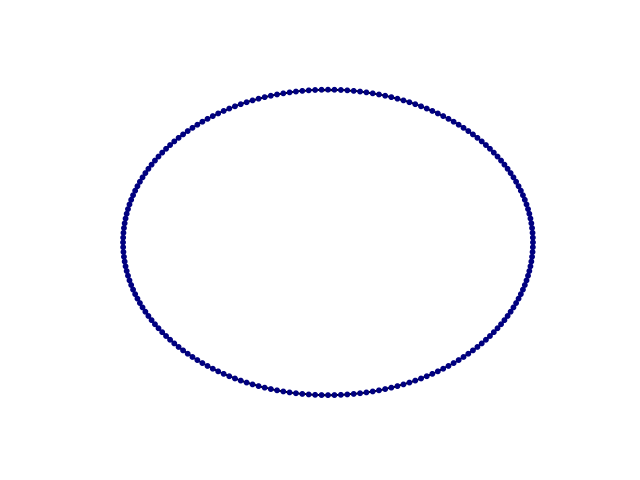
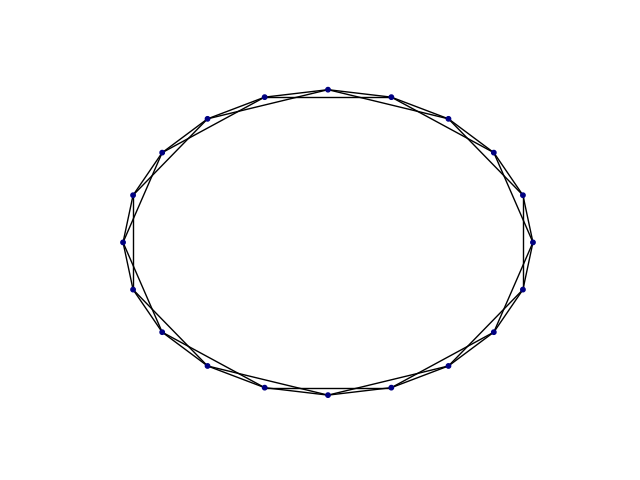
All Done

Changed region(s): [[0.1875, 0.1562, 0.8438, 0.8438]]

diff --git a/Home Problem 3/Home Problem 3.py b/Home Problem 3/Home Problem 3.py
@@ -2,25 +2,25 @@ import numpy as np
 import matplotlib.pyplot as plt
 import networkx as nx
 import collections
-import scipy, scipy.stats,scipy.sparse
+import scipy, scipy.stats, scipy.sparse
 
-def show_graph_with_labels(adjacency_matrix,p):
-    rows,cols = np.where(adjacency_matrix == 1)
+
+def show_graph_with_labels(adjacency_matrix, p):
+    rows, cols = np.where(adjacency_matrix == 1)
 
     nodes = set([n1 for n1 in rows] + [n2 for n2 in cols])
-    tmp=[]
+    tmp = []
     gr = nx.Graph()
     for node in nodes:
         gr.add_node(node)
     for i in range(len(rows)):
-        gr.add_edge(rows[i],cols[i])
+        gr.add_edge(rows[i], cols[i])
     pos = nx.shell_layout(gr)
     fig, ax = plt.subplots()
 
-
     nodes = gr.nodes()
     degree = gr.degree()
-    edges= gr.edges()
+    edges = gr.edges()
     print(edges)
     color = [degree[n] for n in nodes]
     degree_sequence = sorted([d for n, d in gr.degree()], reverse=True)
@@ -28,7 +28,7 @@ def show_graph_with_labels(adjacency_matrix,p):
 
     degreeCount = collections.Counter(degree_sequence)
     deg, cnt = zip(*degreeCount.items())
-    numberOfNodes=len(adjacency_matrix)
+    numberOfNodes = len(adjacency_matrix)
 
     # plt.bar(deg, cnt, width=0.80, color='b')
     #
@@ -39,20 +39,19 @@ def show_graph_with_labels(adjacency_matrix,p):
     # ax.set_xticks([d + 0.4 for d in tmp])
     # ax.set_xticklabels(tmp)
 
-    return fig,ax,gr
+    return fig, ax, gr
 
 
-def ErdosRenyi(n,p):
-
+def ErdosRenyi(n, p):
     edges = np.zeros([n, n])
-    #edges= scipy.sparse.rand(n,n,density=p).ceil()
+    # edges= scipy.sparse.rand(n,n,density=p).ceil()
 
     for i in range(n):
-        for j in range(i+1):
-            r=np.random.rand()
-            if r<p:
-                edges[i][j]=1
-                edges[j][i]=1
+        for j in range(i + 1):
+            r = np.random.rand()
+            if r < p:
+                edges[i][j] = 1
+                edges[j][i] = 1
     np.fill_diagonal(edges, 0)
 
     rows, cols = np.where(edges == 1)
@@ -84,22 +83,23 @@ def ErdosRenyi(n,p):
     fig.savefig('ErdosNetwork.png')
     plt.show()
 
-def SmallWorld(n,p,c):
+
+def SmallWorld(n, p, c):
     edges = np.zeros([n, n])
     for i in range(c):
-        np.fill_diagonal(edges[i+1:],1)
-        np.fill_diagonal(edges[:,i+1:],1)
+        np.fill_diagonal(edges[i + 1:], 1)
+        np.fill_diagonal(edges[:, i + 1:], 1)
         np.fill_diagonal(edges[-(i + 1):], 1)
         np.fill_diagonal(edges[:, -(i + 1):], 1)
-    fig,ax,gr = show_graph_with_labels(edges,p)
+    fig, ax, gr = show_graph_with_labels(edges, p)
 
-    nodes=gr.nodes()
+    nodes = gr.nodes()
     for i in edges:
         r = np.random.rand()
-        if r<p:
-            r1=np.random.randint(0,len(nodes))
-            r2=np.random.randint(0,len(nodes))
-            if not((r1,r2) in edges):
+        if r < p:
+            r1 = np.random.randint(0, len(nodes))
+            r2 = np.random.randint(0, len(nodes))
+            if not ((r1, r2) in edges):
                 gr.add_edge(r1, r2)
 
     pos = nx.shell_layout(gr)
@@ -107,15 +107,16 @@ def SmallWorld(n,p,c):
     nx.draw(gr, pos, node_size=10, node_color='blue', cmap='jet', with_label=True)
     plt.show()
 
-def PerferentialGrowth(m,n0,p):
+
+def PerferentialGrowth(m, n0, p):
     edges = np.zeros([n0, n0])
 
     for i in range(n0):
-        for j in range(i+1):
-            r=np.random.rand()
-            if r<p:
-                edges[i][j]=1
-                edges[j][i]=1
+        for j in range(i + 1):
+            r = np.random.rand()
+            if r < p:
+                edges[i][j] = 1
+                edges[j][i] = 1
     np.fill_diagonal(edges, 0)
     rows, cols = np.where(edges == 1)
 
@@ -126,60 +127,60 @@ def PerferentialGrowth(m,n0,p):
     for i in range(len(rows)):
         gr.add_edge(rows[i], cols[i])
 
-    for i in range(1000):
+    for i in range(4000):
         alreadyConnected = []
         degree_sequence = sorted([d for n, d in gr.degree()], reverse=True)
-        numberOfNodes=len(gr.nodes)
+        numberOfNodes = len(gr.nodes)
         gr.add_node(numberOfNodes)
-        totalDegree=sum(degree_sequence)
-        while len(alreadyConnected)<m:
-            #Ändra här. Ska inte vara random utan bero på fördelningen sedan innan
-            #Använd degree
-            iterator=0
-            comparisonValue=degree_sequence[0]/totalDegree
-            r1=np.random.rand()
-            while r1>comparisonValue:
-                iterator=iterator+1
-                comparisonValue=comparisonValue+degree_sequence[iterator]/totalDegree
-
+        totalDegree = sum(degree_sequence)
+        while len(alreadyConnected) < m:
+            # Ändra här. Ska inte vara random utan bero på fördelningen sedan innan
+            # Använd degree
+            iterator = 0
+            comparisonValue = degree_sequence[0] / totalDegree
+            r1 = np.random.rand()
+            while r1 > comparisonValue:
+                iterator = iterator + 1
+                comparisonValue = comparisonValue + degree_sequence[iterator] / totalDegree
 
             if not iterator in alreadyConnected:
-                gr.add_edge(numberOfNodes,iterator)
+                gr.add_edge(numberOfNodes, iterator)
                 alreadyConnected.append(iterator)
-    nodes=gr.nodes()
-    degree=gr.degree()
+    nodes = gr.nodes()
+    degree = gr.degree()
     color = [degree[n] for n in nodes]
     pos = nx.spring_layout(gr)
     fig, ax = plt.subplots()
     vmin = min(color)
     vmax = max(color)
-    nodes = nx.draw_networkx_nodes(gr, pos, node_color=color,node_size=10,cmap='jet', with_labels=False)
+    nodes = nx.draw_networkx_nodes(gr, pos, node_color=color, node_size=10, cmap='jet', with_labels=False)
     edges = nx.draw_networkx_edges(gr, pos)
-    #nx.draw(gr, pos, node_size=10, nodelist=nodes,node_color=color, cmap='jet', with_label=True)
+    # nx.draw(gr, pos, node_size=10, nodelist=nodes,node_color=color, cmap='jet', with_label=True)
 
     plt.colorbar(nodes)
-    fig.savefig('NetworkPlot_PerferentialGrowth_n0%d_m%d_1000extraNodes.png' %(n0,m))
+    fig.savefig('NetworkPlot_PerferentialGrowth_n0%d_m%d_1000extraNodes.png' % (n0, m))
     degree_sequence = sorted([d for n, d in gr.degree()], reverse=True)
-    cumulative=[np.sum(degree_sequence[:i])/np.sum(degree_sequence) for i in range(len(degree_sequence))]
-    inverseDegree=1/np.array(cumulative)
-    theoretical=lambda k: 2*m**2*k**-2
-    tspan=range(len(degree_sequence))
+    cumulative = [np.sum(degree_sequence[:i]) / np.sum(degree_sequence) for i in range(len(degree_sequence))]
+    inverseDegree = 1 / np.array(cumulative)
+    theoretical = lambda k: 2 * m ** 2 * k ** -2
+    tspan = range(len(degree_sequence))
     yval = [theoretical(x) for x in tspan[1:]]
-    fig2=plt.figure(2)
-    line1,=plt.loglog(tspan,inverseDegree,label='Experimental')
-    line2,=plt.loglog(tspan[1:],yval,label='Theoretical')
-    plt.legend([line1,line2])
-    fig.savefig('Loglog_PerferentialGrowth_n0%d_m%d_1000extraNodes.png' % (n0, m))
+    fig2 = plt.figure(2)
+    line1, = plt.loglog(tspan, inverseDegree, label='Experimental')
+    line2, = plt.loglog(tspan[1:], yval, label='Theoretical')
+    plt.legend(handles=[line1, line2])
+    plt.ylabel('Number of connections')
+    fig2.savefig('Loglog_PerferentialGrowth_n0%d_m%d_1000extraNodes.png' % (n0, m))
     plt.show()
 
 
 if __name__ == "__main__":
     # Method for excercise 1
-    numberOfNodes=200
-    p=0.1
-    c=2
-    ErdosRenyi(8000,0.01)
-    # show_graph_with_labels(adjacency)
-    #SmallWorld(numberOfNodes,p,c)
-    #PerferentialGrowth(20,4000,0.2)
+    numberOfNodes = 20
+    p = 0.4
 
+    c = 2
+    # ErdosRenyi(8000,0.01)
+    # show_graph_with_labels(adjacency)
+    # SmallWorld(numberOfNodes,p,c)
+    PerferentialGrowth(10, 50, 0.2)

diff --git a/Home Problem 4/Main.py b/Home Problem 4/Main.py
@@ -1,0 +1,116 @@
+import numpy as np
+import matplotlib.pyplot as plt
+import networkx as nx
+import collections
+from scipy import linalg
+import csv
+
+def network():
+    test = 0
+
+def Kernighan_Lin(s,B,m):
+    bestModelarity=Modelarity(s,B,m)
+    while True:
+        modelarities=[]
+        for i in range(len(s)):
+            tmpS=s
+            tmpS[i]=-s[i]
+            modelarities.append(Modelarity(tmpS,B,m))
+        bestIndex=np.argmax(modelarities)
+        if modelarities[bestIndex]>bestModelarity:
+            bestModelarity=modelarities[bestIndex]
+            s[bestIndex]=-s[bestIndex]
+            print(bestModelarity)
+        else:
+            return s
+
+def Modelarity(s,B,m):
+    eigenvalues, eigenvectors = np.linalg.eig(B)
+    # Q=0
+    # for i in range(len(eigenvalues)):
+    #   Q=Q+np.dot(eigenvectors[i],s)**2*eigenvalues[i]/(4*m)
+    Q=1/(4*m)*s.dot(B.dot(s))
+    return Q
+
+if __name__ == "__main__":
+
+    data = []
+    with open('communityExample.txt', newline='') as inputfile:
+        for line in inputfile:
+            if(len(line)>20):
+                tmp=line[:-2].split(',')
+                tmp = list(map(int, tmp))
+                data.append(tmp)
+
+    adjacency_matrix = np.array(data)
+    rows, cols = np.where(adjacency_matrix == 1)
+    #Måste läggas till senare, då dessa förstör resten av beräkningarna....
+
+    nodes = set([n1 for n1 in rows] + [n2 for n2 in cols])
+    gr = nx.Graph()
+    for node in nodes:
+        gr.add_node(node)
+    for i in range(len(rows)):
+        gr.add_edge(rows[i], cols[i])
+
+    pos = nx.spring_layout(gr)
+    fig, ax = plt.subplots()
+
+    nodes = gr.nodes()
+    degree = gr.degree()
+    degree_sorted = np.array([x[1] for x in degree])
+    edges = gr.edges()
+
+    color = [degree[n] for n in nodes]
+
+    m=1/2*np.sum(degree_sorted)
+    kikj=np.outer(degree_sorted,degree_sorted)
+    B=adjacency_matrix-kikj/(2*m)
+
+
+    eigenvalues,eigenvectors=linalg.eig(B)
+    order=np.argsort(eigenvalues)[::-1]
+    maxValue=np.argmax(eigenvalues)
+    sortedEigenvalues=[]
+    sortedEigenvectors=[]
+    eigenValues = eigenvalues[maxValue]
+    eigenVectors = eigenvectors[:, maxValue]
+    s=np.where(eigenVectors>0,1,-1)
+
+    s=Kernighan_Lin(s, B, m)
+    group1=np.argwhere(s<0)
+    group2=np.argwhere(s>0)
+    numberInGroup1=len(group1)
+    numberInGroup2=len(group2)
+
+    adjacency_matrix_sub=np.zeros([numberInGroup1,numberInGroup1])
+
+    for i in range(numberInGroup1):
+        for j in range(numberInGroup1):
+            adjacency_matrix_sub[i][j]=adjacency_matrix[group1[i][0]][group1[j][0]]
+
+
+    degree_sub=[sum(x) for x in adjacency_matrix_sub[:]]
+    B_sub=B
+    dg=sum(degree_sub)
+    for i in range(numberInGroup1):
+        B_sub[group1[i][0]][group1[i][0]]=B_sub[group1[i][0]][group1[i][0]]-(degree_sub[i]-degree_sorted[group1[i]][0]*dg/(2*m))
+
+    adjacency_matrix_sub2 = np.zeros([numberInGroup2, numberInGroup2])
+
+    for i in range(numberInGroup2):
+        for j in range(numberInGroup2):
+            adjacency_matrix_sub2[i][j] = adjacency_matrix[group2[i][0]][group2[j][0]]
+
+    degree_sub = [sum(x) for x in adjacency_matrix_sub2[:]]
+    B_sub2 = B
+    dg = sum(degree_sub)
+    for i in range(numberInGroup1):
+        B_sub2[group2[i][0]][group2[i][0]] = B_sub2[group2[i][0]][group2[i][0]] - (
+        degree_sub[i] - degree_sorted[group2[i]][0] * dg / (2 * m))
+
+    print(Modelarity(s,B_sub2,m))
+    print(Modelarity(s,B_sub,m))
+    nx.draw(gr, pos, node_size=10, node_color=s, cmap='jet', with_label=True)
+
+    plt.show()
